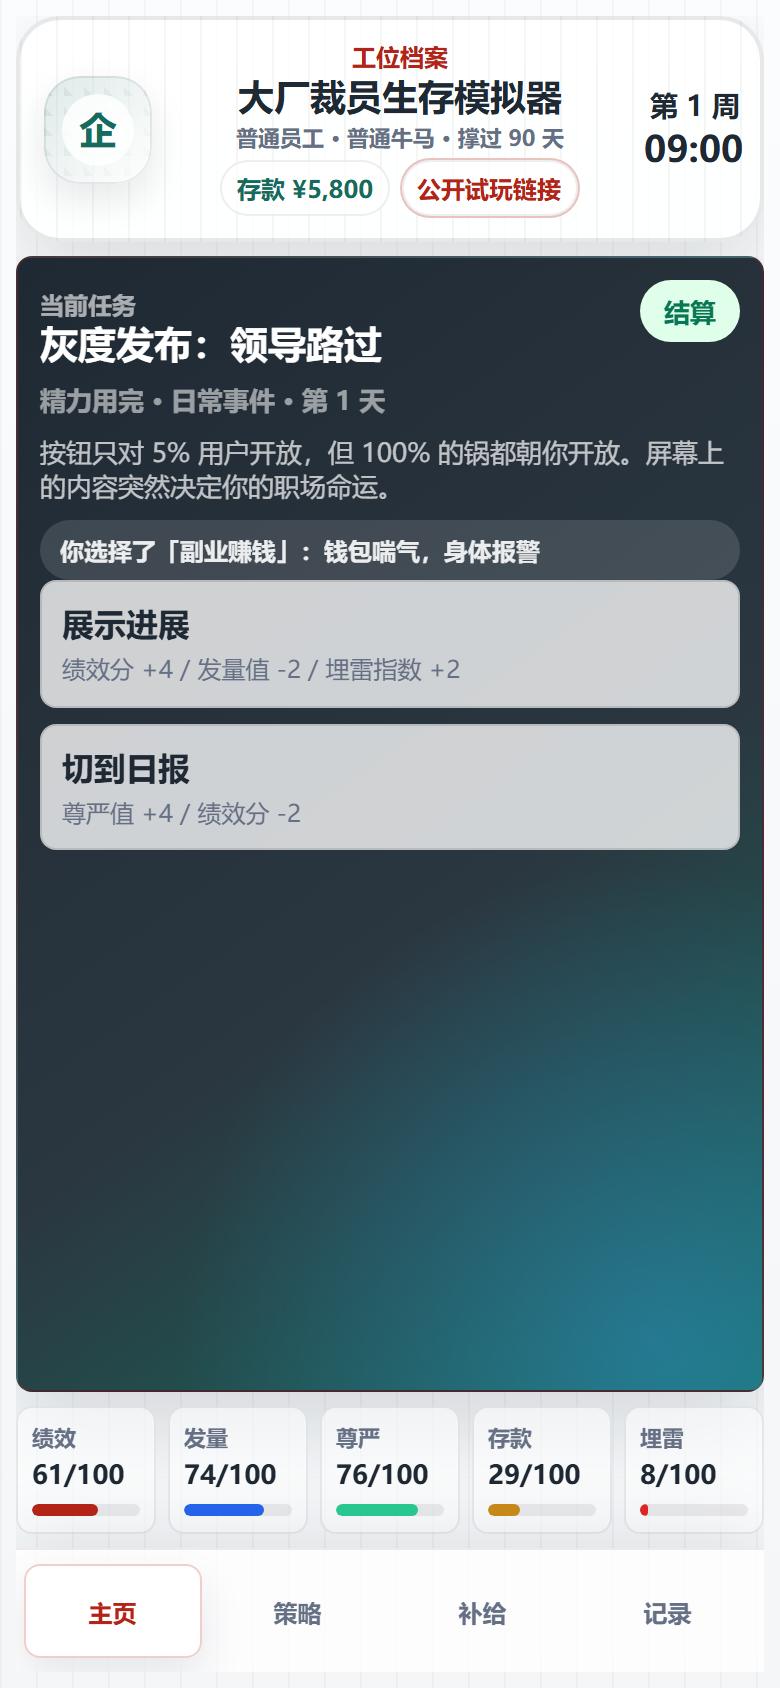
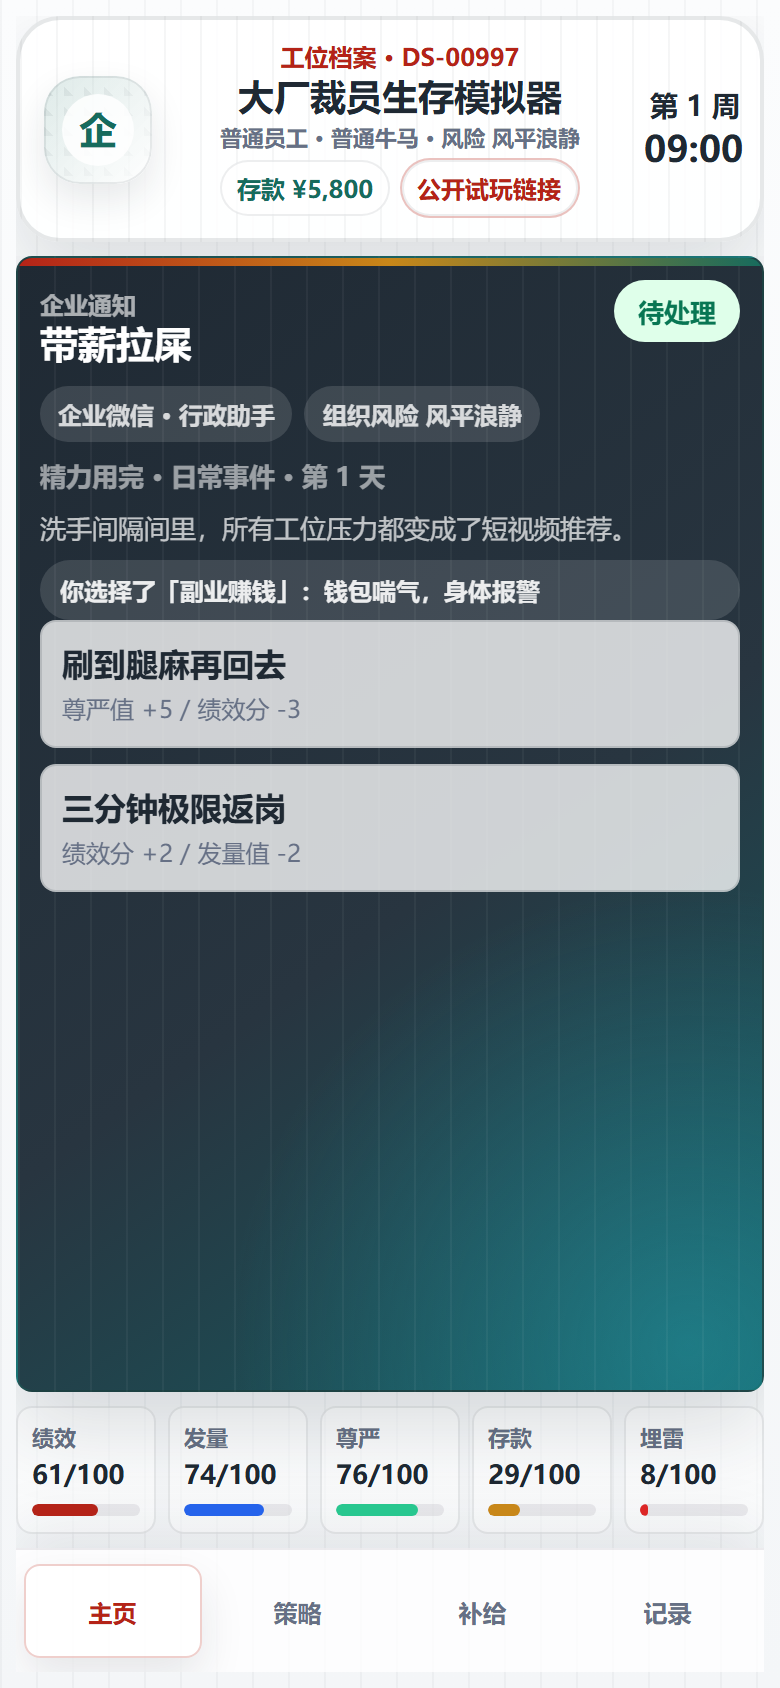
feat: add intranet notice and survival certificate polish

diff --git a/src/main.js b/src/main.js
@@ -78,6 +78,19 @@ function riskText() {
   return '风平浪静';
 }
 
+function employeeId() {
+  return `DS-${String(996 + state.day).padStart(5, '0')}`;
+}
+
+function noticeSource(type) {
+  const sources = {
+    daily: '企业微信 · 行政助手',
+    crisis: '飞书 · HRBP 紧急提醒',
+    opportunity: '内网 OA · 机会流转'
+  };
+  return sources[type] || '内网 OA · 公司播报';
+}
+
 function difficultyLabel() {
   return getDifficulty(state.difficultyId).label;
 }
@@ -492,9 +505,9 @@ function renderMobileStatus() {
           <span>企</span>
         </div>
         <div class="work-brief" aria-label="工位档案">
-          <span class="work-kicker">工位档案</span>
+          <span class="work-kicker">工位档案 · ${employeeId()}</span>
           <strong>大厂裁员生存模拟器</strong>
-          <small>普通员工 · ${difficultyLabel()} · 撑过 90 天</small>
+          <small>普通员工 · ${difficultyLabel()} · 风险 ${riskText()}</small>
           <div class="header-actions">
             <span class="balance-chip">存款 ${money(state.stats.savings)}</span>
             <button class="status-copy-button" data-copy-launch="true">公开试玩链接</button>
@@ -556,14 +569,20 @@ function renderMobileMission() {
     : (brief.visible ? brief.summary : funnel.summary);
 
   return `
-    <section class="mission-card" aria-label="当前任务">
+    <section class="mission-card ${activeEvent ? 'company-notice-card' : ''}" aria-label="当前任务">
       <div class="mission-head">
         <div>
-          <span>当前任务</span>
+          <span>${activeEvent ? '企业通知' : '当前任务'}</span>
           <h2>${escapeHtml(missionTitle)}</h2>
         </div>
-        <b>${state.dailyBuffs?.slackSafe ? '今日 Buff' : (state.energy > 0 ? '稳定' : '结算')}</b>
+        <b>${activeEvent ? '待处理' : (state.dailyBuffs?.slackSafe ? '今日 Buff' : (state.energy > 0 ? '稳定' : '结算'))}</b>
       </div>
+      ${activeEvent ? `
+        <div class="notice-meta">
+          <span>${escapeHtml(noticeSource(activeEvent.type))}</span>
+          <span>组织风险 ${escapeHtml(riskText())}</span>
+        </div>
+      ` : ''}
       <p class="mission-meta">${escapeHtml(missionMeta)}</p>
       <p>${escapeHtml(missionBody)}</p>
       ${state.logs[0] ? `<div class="mission-feedback">${escapeHtml(state.logs[0])}</div>` : ''}
@@ -718,6 +737,10 @@ function renderShareCard(report) {
   return `
     <section class="share-card">
       <div class="report-stamp">HR REVIEW</div>
+      <div class="certificate-head">
+        <span>LAYOFF SURVIVAL CERTIFICATE</span>
+        <b>幸存证明</b>
+      </div>
       <span class="event-type">打工人报告</span>
       <h3>${escapeHtml(report.shareHeadline)}</h3>
       <p class="tier-line">${escapeHtml(report.survivalTier)} · ${escapeHtml(report.endingDescription)}</p>
@@ -733,7 +756,7 @@ function renderShareCard(report) {
         <span><strong>${report.adsWatched}</strong><small>广告次数</small></span>
       </div>
       <p>${escapeHtml(report.diagnosis)}</p>
-      <small class="poster-code">${escapeHtml(report.posterCode)}</small>
+      <small class="poster-code">证明编号：${escapeHtml(report.posterCode)}</small>
     </section>
   `;
 }

diff --git a/src/styles.css b/src/styles.css
@@ -356,6 +356,7 @@ button:disabled {
 }
 
 .mission-card {
+  position: relative;
   min-height: 0;
   overflow: auto;
   overscroll-behavior: contain;
@@ -365,6 +366,22 @@ button:disabled {
     linear-gradient(145deg, #1f2933 0%, #2b3740 58%, #176b5d 100%);
   color: #fff;
   padding: 15px;
+}
+
+.company-notice-card {
+  border-color: rgba(23, 107, 93, 0.34);
+  background:
+    linear-gradient(90deg, rgba(255, 255, 255, 0.045) 1px, transparent 1px) 0 0 / 18px 18px,
+    radial-gradient(circle at 90% 96%, rgba(43, 181, 198, 0.38), transparent 36%),
+    linear-gradient(145deg, #1f2933 0%, #283540 56%, #155c61 100%);
+}
+
+.company-notice-card::before {
+  content: "";
+  position: absolute;
+  inset: 0 0 auto;
+  height: 4px;
+  background: linear-gradient(90deg, var(--risk), var(--amber), var(--accent));
 }
 
 .mission-head {
@@ -396,6 +413,22 @@ button:disabled {
   color: #087653;
   padding: 7px 12px;
   font-size: 13px;
+}
+
+.notice-meta {
+  display: flex;
+  flex-wrap: wrap;
+  gap: 6px;
+  margin-top: 10px;
+}
+
+.notice-meta span {
+  border-radius: 999px;
+  background: rgba(255, 255, 255, 0.13);
+  color: rgba(255, 255, 255, 0.8);
+  padding: 6px 9px;
+  font-size: 12px;
+  font-weight: 900;
 }
 
 .mission-card p {
@@ -900,10 +933,32 @@ button:disabled {
   position: relative;
   overflow: hidden;
   margin: 14px 0;
-  border: 1px solid rgba(180, 35, 24, 0.26);
+  border: 1px solid rgba(31, 41, 51, 0.16);
   border-radius: 8px;
-  background: #fff8fc;
-  padding: 14px;
+  background:
+    linear-gradient(90deg, rgba(31, 41, 51, 0.045) 1px, transparent 1px) 0 0 / 18px 18px,
+    linear-gradient(180deg, #ffffff 0%, #eef5f3 100%);
+  padding: 16px 14px 14px;
+}
+
+.certificate-head {
+  display: grid;
+  gap: 2px;
+  margin-bottom: 10px;
+  border-bottom: 1px solid rgba(31, 41, 51, 0.12);
+  padding-bottom: 10px;
+}
+
+.certificate-head span {
+  color: var(--accent);
+  font-size: 11px;
+  font-weight: 1000;
+}
+
+.certificate-head b {
+  color: var(--ink);
+  font-size: 24px;
+  line-height: 1;
 }
 
 .share-card h3 {
@@ -936,7 +991,7 @@ button:disabled {
 
 .report-stamp {
   position: absolute;
-  top: 14px;
+  top: 16px;
   right: 12px;
   transform: rotate(8deg);
   border: 2px solid var(--risk);

diff --git a/tests/game.test.js b/tests/game.test.js
@@ -686,8 +686,25 @@ test('mobile header shows savings total beside launch link', () => {
   const smoke = readFileSync('scripts/browser-smoke.mjs', 'utf8');
   assert.ok(main.includes('balance-chip'));
   assert.ok(main.includes('存款 ${money(state.stats.savings)}'));
+  assert.ok(main.includes('employeeId()'));
+  assert.ok(main.includes('风险 ${riskText()}'));
   assert.ok(styles.includes('.header-actions'));
   assert.ok(smoke.includes('存款总数'));
+});
+
+test('intranet notice and survival certificate polish the theme', () => {
+  const main = readFileSync('src/main.js', 'utf8');
+  const styles = readFileSync('src/styles.css', 'utf8');
+  const smoke = readFileSync('scripts/browser-smoke.mjs', 'utf8');
+  assert.ok(main.includes('noticeSource'));
+  assert.ok(main.includes('企业通知'));
+  assert.ok(main.includes('幸存证明'));
+  assert.ok(main.includes('LAYOFF SURVIVAL CERTIFICATE'));
+  assert.ok(styles.includes('.company-notice-card'));
+  assert.ok(styles.includes('.certificate-head'));
+  assert.ok(smoke.includes('企业通知样式'));
+  assert.ok(smoke.includes('组织风险提示'));
+  assert.ok(smoke.includes('员工编号'));
 });
 
 test('index versions runtime assets for public cache busting', () => {

diff --git a/index.html b/index.html
@@ -5,10 +5,10 @@
     <meta name="viewport" content="width=device-width, initial-scale=1.0" />
     <title>大厂裁员生存模拟器</title>
     <link rel="icon" type="image/svg+xml" href="./favicon.svg" />
-    <link rel="stylesheet" href="./src/styles.css?v=mobile-header-profile-center-20260802" />
+    <link rel="stylesheet" href="./src/styles.css?v=survival-intranet-20260802" />
   </head>
   <body>
     <main id="app" class="app" aria-live="polite"></main>
-    <script type="module" src="./src/main.js?v=mobile-header-profile-center-20260802"></script>
+    <script type="module" src="./src/main.js?v=survival-intranet-20260802"></script>
   </body>
 </html>

diff --git a/docs/qa/m17-browser-smoke-report.md b/docs/qa/m17-browser-smoke-report.md
@@ -2,8 +2,8 @@
 
 整体状态：PASS
 测试地址：http://127.0.0.1:4173/
-生成时间：2026-08-02T12:26:15.415Z
-检查项：36/36 通过
+生成时间：2026-08-02T13:43:17.861Z
+检查项：42/42 通过
 控制台错误：0
 
 ## 视口结果
@@ -21,6 +21,7 @@
 | --- | --- | --- |
 | 首屏标题 | PASS | 包含文本：大厂裁员生存模拟器 |
 | 工位档案 | PASS | 包含文本：工位档案 |
+| 员工编号 | PASS | 包含文本：DS- |
 | 存款总数 | PASS | 包含文本：存款 ¥5,000 |
 | 上线分享 | PASS | 包含文本：公开试玩链接 |
 | 行动区 | PASS | 包含文本：今日行动 |
@@ -36,6 +37,8 @@
 | 首页不抢推广告 | PASS | 每日 Buff 已移到补给页 |
 | 复制试玩链接入口 | PASS | 公开试玩链接有复制按钮 |
 | 精力用完提示 | PASS | 包含文本：精力用完 |
+| 企业通知样式 | PASS | 包含文本：企业通知 |
+| 组织风险提示 | PASS | 包含文本：组织风险 |
 | 首个事件出现 | PASS | 包含日常、危机或机遇事件类型 |
 
 **控制台错误：** 无
@@ -47,6 +50,7 @@
 | --- | --- | --- |
 | 首屏标题 | PASS | 包含文本：大厂裁员生存模拟器 |
 | 工位档案 | PASS | 包含文本：工位档案 |
+| 员工编号 | PASS | 包含文本：DS- |
 | 存款总数 | PASS | 包含文本：存款 ¥5,000 |
 | 上线分享 | PASS | 包含文本：公开试玩链接 |
 | 行动区 | PASS | 包含文本：今日行动 |
@@ -62,6 +66,8 @@
 | 首页不抢推广告 | PASS | 每日 Buff 已移到补给页 |
 | 复制试玩链接入口 | PASS | 公开试玩链接有复制按钮 |
 | 精力用完提示 | PASS | 包含文本：精力用完 |
+| 企业通知样式 | PASS | 包含文本：企业通知 |
+| 组织风险提示 | PASS | 包含文本：组织风险 |
 | 首个事件出现 | PASS | 包含日常、危机或机遇事件类型 |
 
 **控制台错误：** 无
